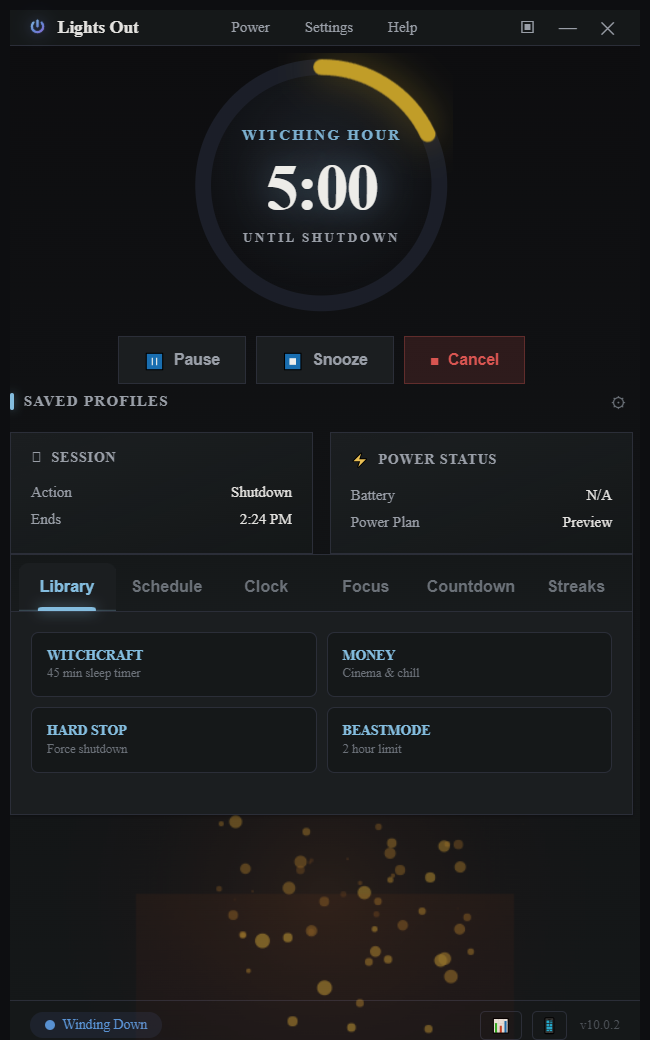
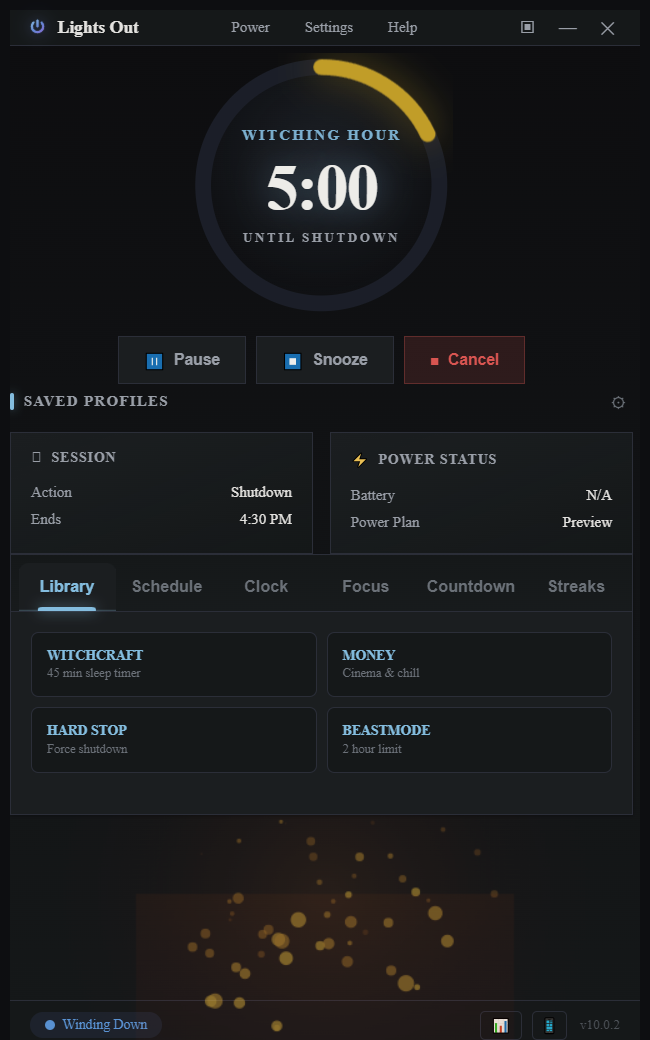
docs: retake 01_ready with Dry Run off, update capture script for public marketing

diff --git a/electron/scripts/proof-capture.js b/electron/scripts/proof-capture.js
@@ -53,12 +53,15 @@ async function captureApp() {
   await win.webContents.reload();
   await wait(2500);
 
-  // 1. Ready state
+  // 1. Ready state (Dry Run OFF for a clean public hero shot)
   await win.webContents.executeJavaScript(`(function(){
     if (typeof state !== 'undefined') {
       state.running = false; state.paused = false; state.phase = 'idle';
       state.remainingSeconds = 1680; state.totalSeconds = 1680; state.endsAt = null;
+      state.dryRun = false;
     }
+    var chkDry = document.getElementById('chk-dryrun');
+    if (chkDry) chkDry.checked = false;
     document.body.className = document.body.className.replace(/phase-\\w+|is-running|is-paused|warm-shift/g, '').trim();
     if (typeof AmbientVisuals !== 'undefined') AmbientVisuals.stop();
     if (typeof render === 'function') render();
@@ -121,12 +124,11 @@ async function captureApp() {
 }
 
 async function captureRelease() {
-  // Electron cannot load external GitHub URLs (ERR_FAILED).
-  // Use capture-website-cli (Puppeteer-based) instead:
-  //   npx capture-website-cli "$RELEASE_URL" --output="$OUT/05_github_release.png" --width=1200 --height=1000
-  // Or screenshot manually in a browser.
-  console.log('NOTE: GitHub release screenshot must be captured separately.');
-  console.log('  npx capture-website-cli "' + RELEASE_URL + '" --output="' + path.join(OUT, '05_github_release.png') + '" --width=1200 --height=1000');
+  // Repo is private, so unauthenticated headless browsers get 404.
+  // To capture: open the release page in your authenticated browser and screenshot,
+  // or make the repo public first so Puppeteer/capture-website-cli can access it.
+  console.log('NOTE: GitHub release screenshot must be captured manually or after repo goes public.');
+  console.log('  URL: ' + RELEASE_URL);
 }
 
 app.whenReady().then(async () => {